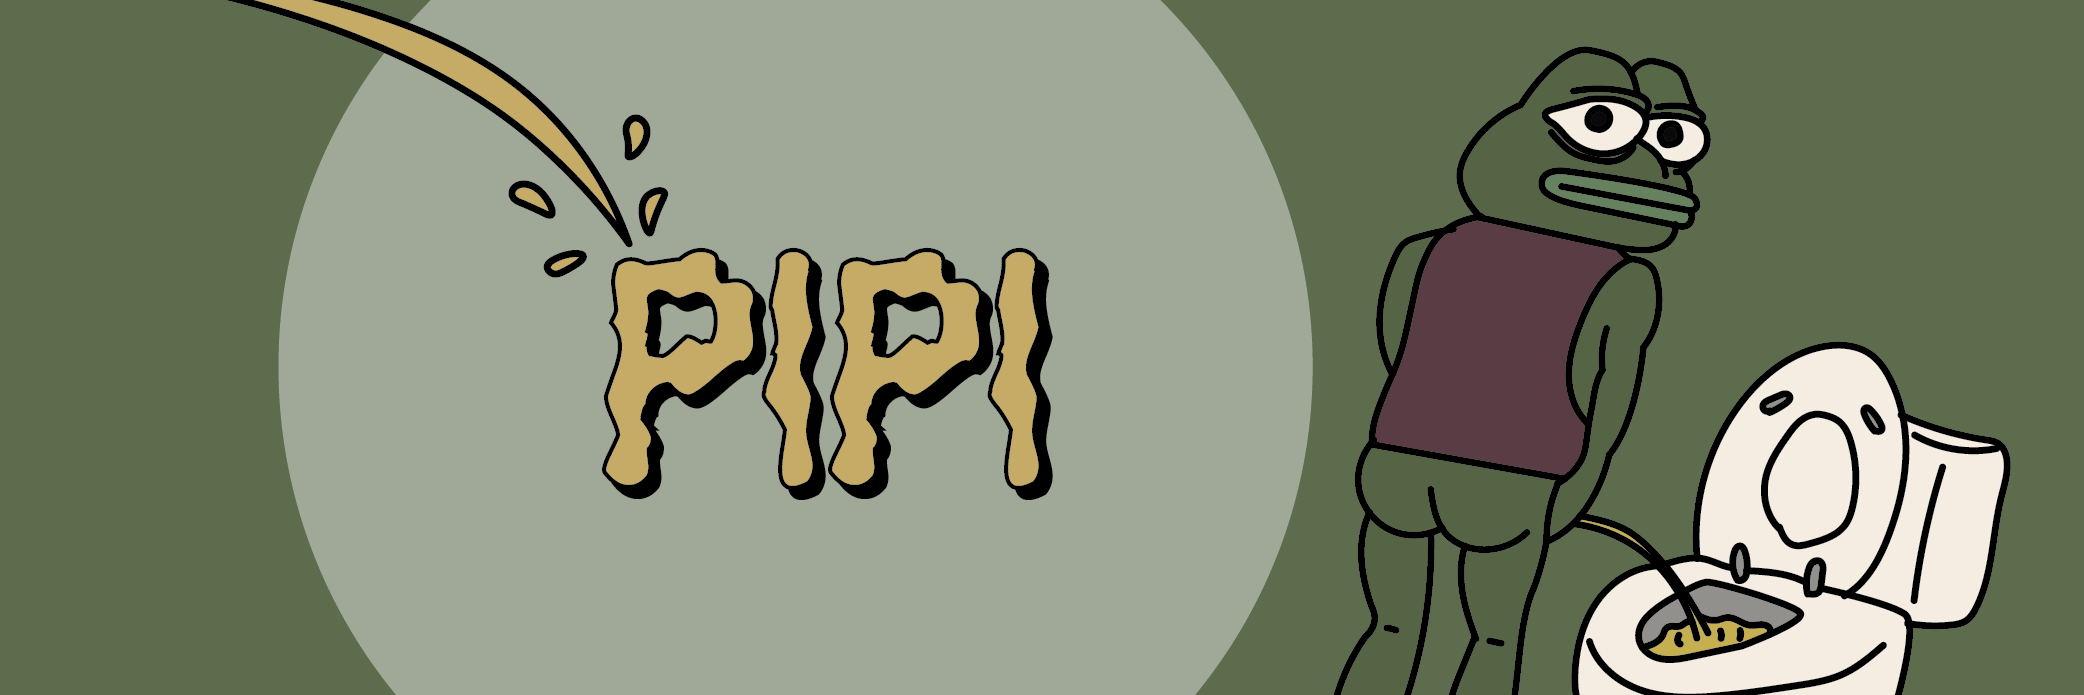
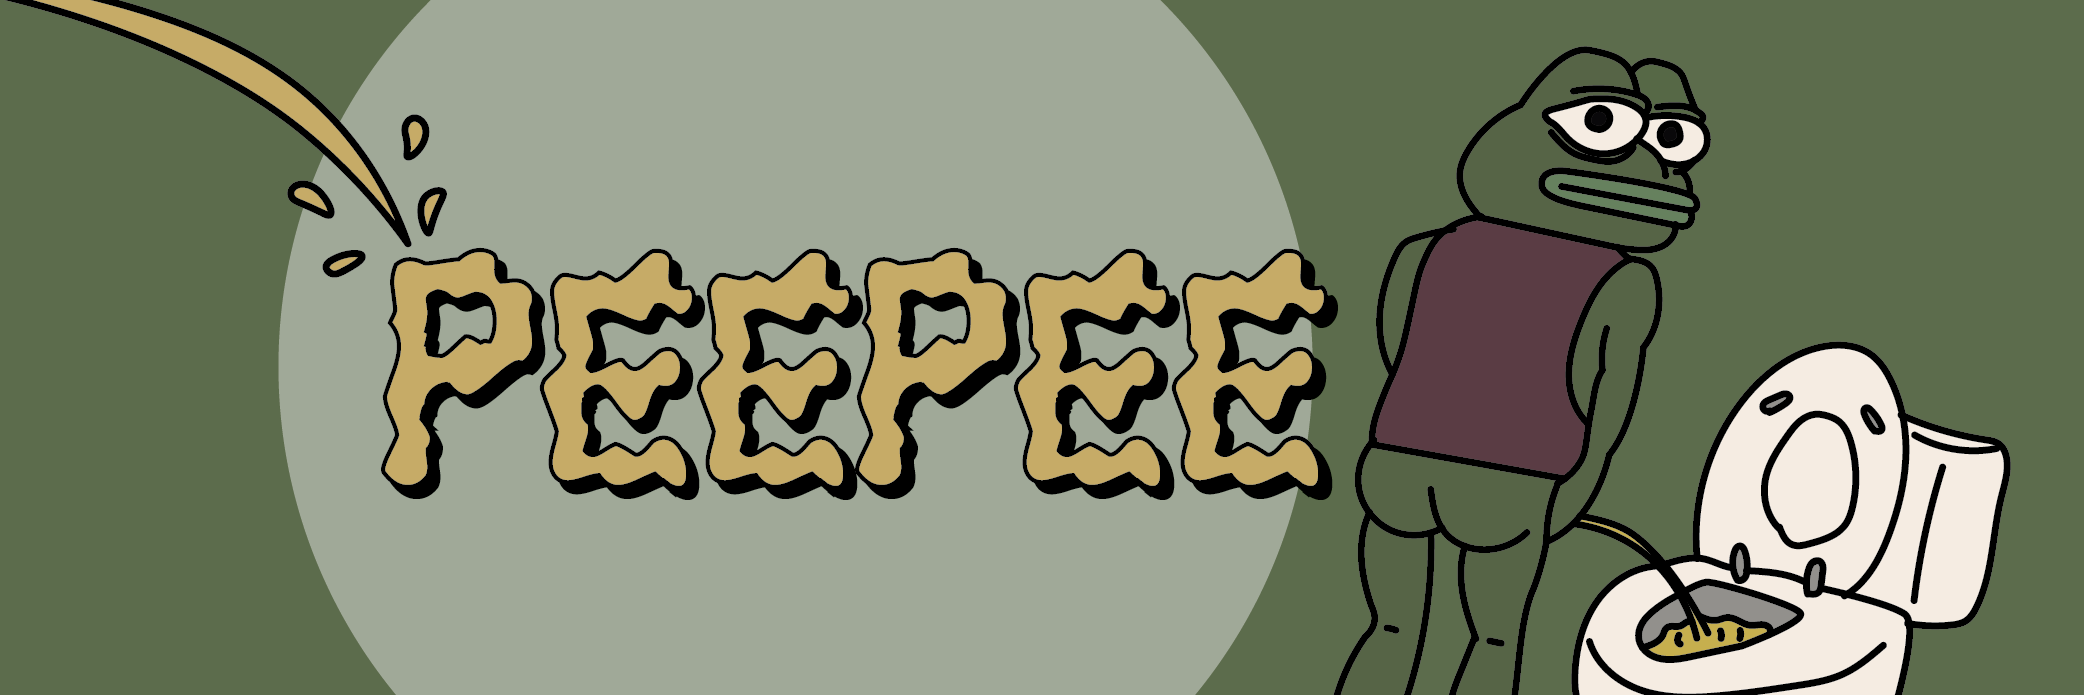
gd

Changed region(s): [[0.0, 0.0, 0.655, 0.7252]]

diff --git a/index.html b/index.html
@@ -8,9 +8,9 @@
 <head>
 	<meta charset="utf-8">
 	<meta name="viewport" content="width=device-width, initial-scale=1">
-	<meta name="description" content="Join the king of crypto, PIPI, on his latest venture in to the Sol cryptosphere.">
+	<meta name="description" content="Join the king of crypto, PeePee, on his latest venture in to the Sol cryptosphere.">
 	<meta name="generator" content="Joomla! - Open Source Content Management">
-	<title>PIPI</title>
+	<title>PeePee</title>
 	<link href="indexc0d0c0d0.php?format=feed&amp;type=rss" rel="alternate" type="application/rss+xml" title="RSS 2.0">
 	<link href="index7b177b17.php?format=feed&amp;type=atom" rel="alternate" type="application/atom+xml"
 		title="Atom 1.0">
@@ -1920,7 +1920,7 @@
 																														data-sstype="layer">
 																														<a style="display:inline-block;"
 																															class="n2-ss-item-content n2-ow"
-																															href="https://t.me/PipiERC"><span
+																															href="https://t.me/peepeeERC20"><span
 																																class="n2i  n2-ss-7item3 nfa nfa-telegram"
 																																style="font-size:250%;"></span></a>
 																													</div>
@@ -1936,7 +1936,7 @@
 																														data-sstype="layer">
 																														<a style="display:inline-block;"
 																															class="n2-ss-item-content n2-ow"
-																															href="https://twitter.com/PipiERC20"><span
+																															href="https://twitter.com/PeepeeERC"><span
 																																class="n2i  n2-ss-7item4 nfa nfa-twitter-square"
 																																style="font-size:250%;"></span></a>
 																													</div>
@@ -1968,7 +1968,7 @@
 																									data-sstype="layer">
 																									<a style="display:inline-block;"
 																										class="n2-ss-item-content n2-ow"
-																										href="https://t.me/PipiERC"><span
+																										href="https://t.me/peepeeERC20"><span
 																											class="n2i  n2-ss-7item5 nfa nfa-telegram"
 																											style="font-size:250%;"></span></a>
 																								</div>
@@ -2013,7 +2013,7 @@
 																									data-sstype="layer">
 																									<a style="display:inline-block;"
 																										class="n2-ss-item-content n2-ow"
-																										href="https://twitter.com/PipiERC20"><span
+																										href="https://twitter.com/PeepeeERC"><span
 																											class="n2i  n2-ss-7item7 nfa nfa-twitter-square"
 																											style="font-size:250%;"></span></a>
 																								</div>
@@ -2039,7 +2039,7 @@
 																									<div id="n2-ss-7item8"
 																										class="n2-font-adbc107b1f4663232ef4f3757ea74d10-hover   n2-ss-item-content n2-ss-text n2-ow"
 																										style="display:block;">
-																										$PIPI<br>
+																										$PeePee<br>
 																									</div>
 																								</div>
 																								<div class="n2-ss-layer n2-ow n-uc-16f4fc8509c3e"
@@ -2058,7 +2058,7 @@
 																									<div id="n2-ss-7item10"
 																										class="n2-font-70e5e370b75c5f14db9fe68bf9582da0-hover n2-style-a5d57a7956b25b32b95b0e89c228a9d3-heading   n2-ss-item-content n2-ss-text n2-ow"
 																										style="display:block;">
-																										<!-- Matt Furie named the frog pepe cuz it sounded like Pipi -->
+																										<!-- Matt Furie named the frog pepe cuz it sounded like PeePee -->
 																									</div>
 																								</div>
 																								<div class="n2-ss-layer n2-ow n-uc-DaXrdHIlJLiT"
@@ -2074,7 +2074,7 @@
 																													class="n2i nfa nfa-tags"
 																													style="font-size:100%;margin-right:0.52em;"></span>
 																												<div>BUY
-																													$PIPI
+																													$PeePee
 																												</div>
 																											</div>
 																										</a></div>
@@ -2227,7 +2227,7 @@
 																									<div id="n2-ss-8item2"
 																										class="n2-font-27a24b4d9071e95206646cbb67dc440d-hover   n2-ss-item-content n2-ss-text n2-ow"
 																										style="display:block;">
-																										What is $PIPI
+																										What is $PeePee
 																									</div>
 																								</div>
 																								<div class="n2-ss-layer n2-ow n-uc-12b84db8dbd6e"
@@ -2237,7 +2237,7 @@
 																									<div id="n2-ss-8item3"
 																										class="n2-font-1b5537ca0e679181f6cfb36fbf759a5f-hover   n2-ss-item-content n2-ss-text n2-ow"
 																										style="display:block;">
-																										Matt Furie, the creator of the iconic frog character, chose to christen his creation "Pepe" due to the endearing resonance it shared with "Pipi.
+																										Matt Furie, the creator of the iconic frog character, chose to christen his creation "Pepe" due to the endearing resonance it shared with "PeePee.
 																									</div>
 																								</div>
 																								<div class="n2-ss-layer n2-ow n-uc-y2SmEbPzqNBE n2-ss-layer--auto"
@@ -2374,7 +2374,7 @@
 																									<div id="n2-ss-9item2"
 																										class="n2-font-4984a4fc310220062f5e8b01efaa8ad9-hover   n2-ss-item-content n2-ss-text n2-ow"
 																										style="display:block;">
-																										Welcome to PIPI
+																										Welcome to PeePee
 																										</div>
 																								</div>
 																								<div class="n2-ss-layer n2-ow n-uc-19ba366a8cbb9"
@@ -2384,7 +2384,7 @@
 																									<div id="n2-ss-9item3"
 																										class="n2-font-936d0ae1ae827a692f5ce905f6ddc8ce-hover   n2-ss-item-content n2-ss-text n2-ow"
 																										style="display:block;">
-																										In the whimsical realm of character creation, Matt Furie playfully christened his beloved amphibian creation "Pepe." Deliberately selected for its charming phonetic resemblance to "Pipi," this name encapsulates the endearing essence of his character's whimsical persona.<br> CA:
+																										In the whimsical realm of character creation, Matt Furie playfully christened his beloved amphibian creation "Pepe." Deliberately selected for its charming phonetic resemblance to "PeePee," this name encapsulates the endearing essence of his character's whimsical persona.<br> CA:
 																									</div>
 																								</div>
 																								
@@ -2444,7 +2444,7 @@
 																				data-sstype="layer">
 																				<div id="n2-ss-9item7"
 																					class="n2-font-4aaf0b36c3671ba535c9ed0dde9dc03a-hover   n2-ss-item-content n2-ss-text n2-ow"
-																					style="display:block;">Matt Furie decided to name his frog character "Pepe" because the name sounded similar to "Pipi."
+																					style="display:block;">Matt Furie decided to name his frog character "Pepe" because the name sounded similar to "PeePee."
 																				</div>
 																			</div>
 																			<div class="n2-ss-layer n2-ow n-uc-1364ec1ea2f2e"
@@ -2460,7 +2460,7 @@
 																						<div><span
 																								class="n2i nfa nfa-tags"
 																								style="font-size:100%;margin-right:0.52em;"></span>
-																							<div>BUY $PIPI</div>
+																							<div>BUY $PeePee</div>
 																						</div>
 																					</a></div>
 																			</div>
@@ -2520,7 +2520,7 @@
 																									data-sstype="layer">
 																									<a style="display:inline-block;"
 																										class="n2-ss-item-content n2-ow"
-																										href="https://t.me/PipiERC"><span
+																										href="https://t.me/peepeeERC20"><span
 																											class="n2i  n2-ss-9item11 nfa nfa-telegram"
 																											style="font-size:250%;"></span></a>
 																								</div>
@@ -2536,7 +2536,7 @@
 																									data-sstype="layer">
 																									<a style="display:inline-block;"
 																										class="n2-ss-item-content n2-ow"
-																										href="https://twitter.com/PipiERC20"><span
+																										href="https://twitter.com/PeepeeERC"><span
 																											class="n2i  n2-ss-9item12 nfa nfa-twitter-square"
 																											style="font-size:250%;"></span></a>
 																								</div>
